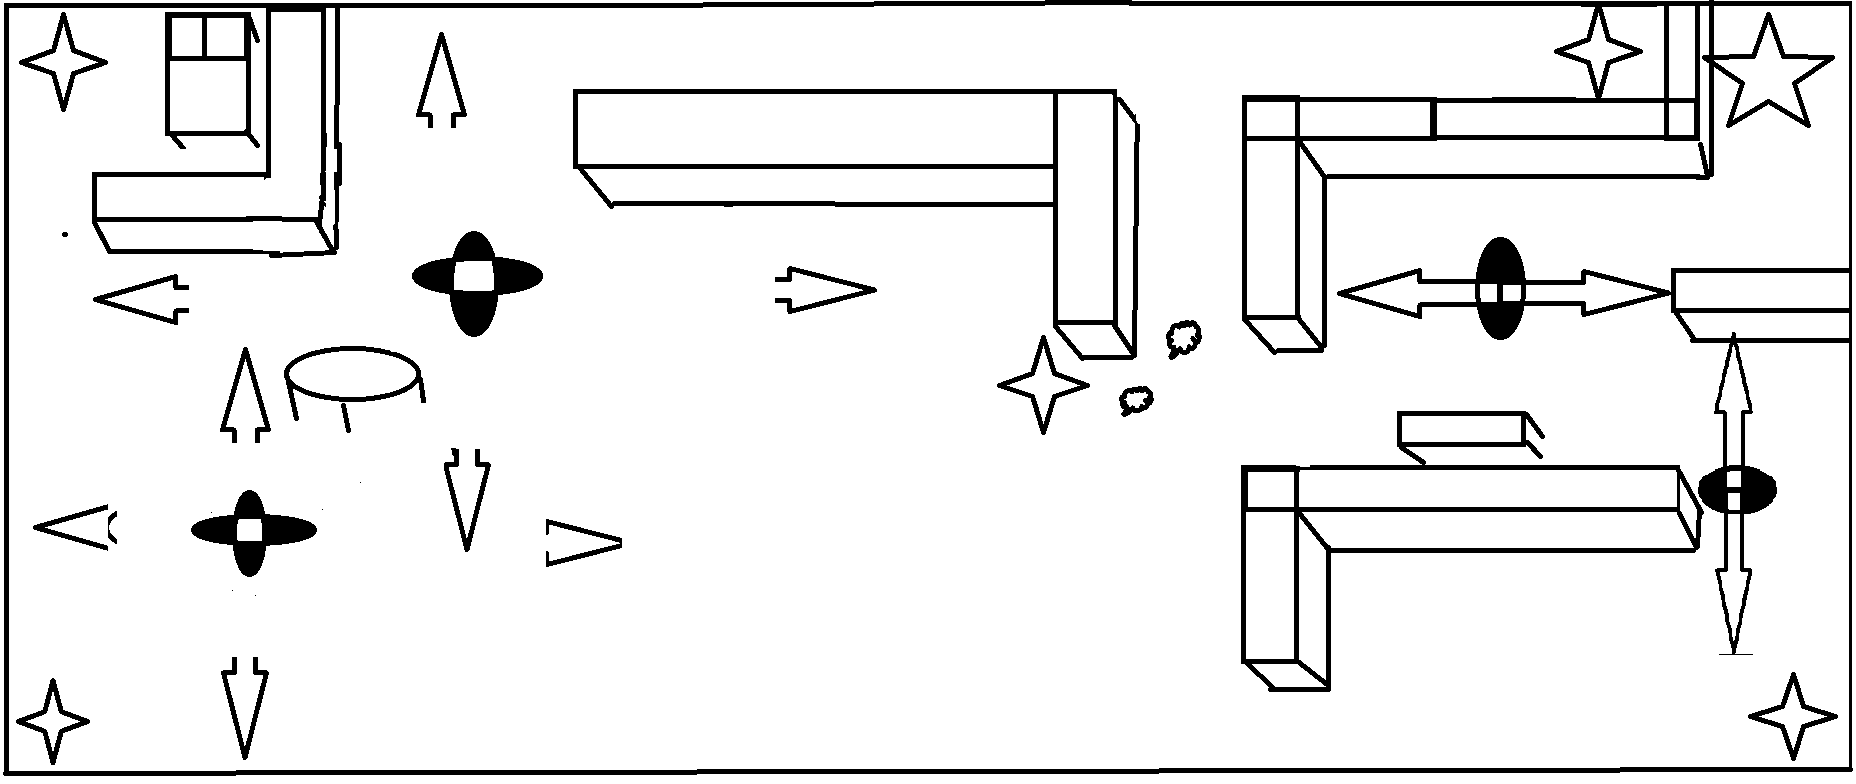
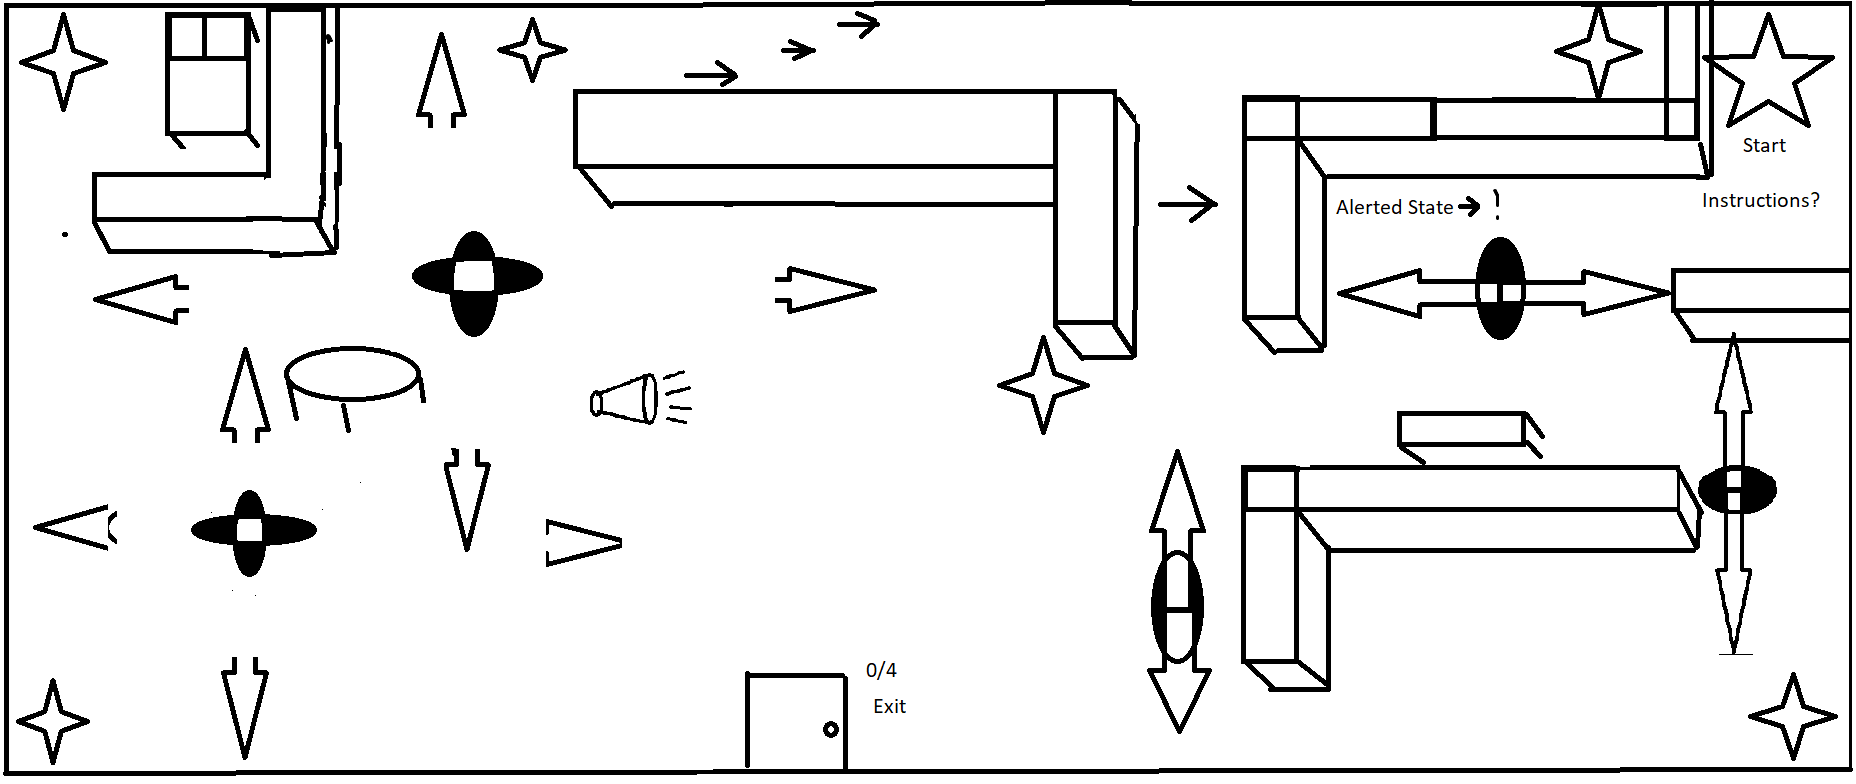
Added map ideas

diff --git a/Assets/Scripts/Hostage.cs b/Assets/Scripts/Hostage.cs
@@ -5,12 +5,14 @@ using UnityEngine;
 //player can pick up a hostage
 public class Hostage : MonoBehaviour {
 
+	bool hostageGet = true;
+
 	void OnTriggerEnter2D (Collider2D other) {
-		
-		if (other.gameObject.name == "Player") {
+		if (other.gameObject.name == "Player" && hostageGet == true) {
 			print ("hostage rescued!");
-			//make gameobject disappear once the player collides with is
+			//make gameobject disappear once the player collides with it
 			this.gameObject.GetComponent<Renderer> ().enabled = false;
+			hostageGet = false;
 		}
 
 	}
